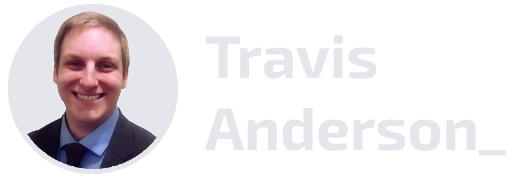
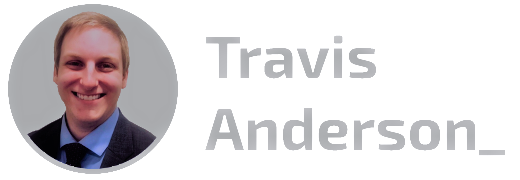
homepage done, set up context and changed routes to slide show

diff --git a/my.portfolio/src/pages/LinkedIn.tsx b/my.portfolio/src/pages/LinkedIn.tsx
@@ -1,11 +1,11 @@
-// @ts-nocheck
-import React from "react";
-import {Button, Paper, Typography} from "@mui/material";
+import React, { useContext } from "react";
+import { Box, Button, Paper, Typography } from "@mui/material";
+import { UserContext } from "../Contexts/PageContext";
 
 const paper = {
     bgcolor: 'primary.main',
     position: "relative"
-}
+} as const
 const title = {
     color: 'text.primary',
     padding: '20px',
@@ -19,14 +19,15 @@ const buttonPadding = {
     marginLeft: '10px'
 }
 export const LinkedIn = () => {
+    const { pageId, setPageId } = useContext<any>(UserContext)
     return (
-        <div>
+        <Box sx={{position:'relative'}}>
             <Typography variant="h3" sx={title}>Introduction
-                <Button sx={{...paper, ...buttonPadding}}
-                        onClick={() => window.open("https://www.linkedin.com/in/travis-anderson-60106a107/", "_blank")}> View
+                <Button sx={{ ...paper, ...buttonPadding }}
+                    onClick={() => window.open("https://www.linkedin.com/in/travis-anderson-60106a107/", "_blank")}> View
                     Travis's Linkedin Profile
                 </Button></Typography>
-            <Paper sx={{paper}}>
+            <Paper sx={{ paper }}>
                 <Typography sx={body}>
                     They say that if you love what you do for your job then you never need to work a day in your life.
                     When I wrote my first javascript function, I was ecstatic. I find manipulating data and growing my
@@ -35,24 +36,29 @@ export const LinkedIn = () => {
                     possible. I love learning new languages and seeing code in different ways. I seem to pick things up
                     rather quickly and enjoy working on software that I can use in my life in a practical way. I am a
                     front-end developer. I use HTML, CSS, JS, and can build apps with React framework.
-                    <br/><br/>
+                    <br /><br />
                     I am gravitating toward a junior front-end position with a hands-on approach to development.
                     Ideally, I would contribute immediately while at the same time continue to broaden my knowledge. I
                     am looking for a company that provides a work environment that is conducive to continued learning,
                     work hard, and advance while having fun.
                     As a self-motivated employee, I will take initiative. I am able to adapt to change in a positive
                     way. I am goal orientated and will accept challenges that will help the company and team succeed.
-                    <br/><br/>
+                    <br /><br />
                     The following are examples of how I've been described by employers and colleagues;
-                    <br/><br/>
-                    -problem solver<br/>
-                    -great work ethic<br/>
-                    -team player<br/>
-                    -good time management skills<br/>
-                    -able to set and achieve goals<br/>
+                    <br /><br />
+                    -problem solver<br />
+                    -great work ethic<br />
+                    -team player<br />
+                    -good time management skills<br />
+                    -able to set and achieve goals<br />
                     -constantly looking for ways to improve in all areas of my life.
                 </Typography>
-
+                <Button onClick={() => setPageId(2)} variant={'contained'} sx={{ position: 'absolute', bottom: 10, right: 10, bgcolor: 'secondary.light' }}>
+                    <Typography sx={{ display: 'inlineBlock', verticalAlign: 'middle' }} variant={'body1'} >Git Hub</Typography>
+                </Button>
+                <Button onClick={() => setPageId(0)} variant={'contained'} sx={{ position: 'absolute', bottom: 10, left: 10, bgcolor: 'secondary.light'}}>
+                    <Typography sx={{ display: 'inlineBlock', verticalAlign: 'middle' }} variant={'body1'} >Home</Typography>
+                </Button>
             </Paper>
-        </div>)
+        </Box>)
 }

diff --git a/my.portfolio/src/pages/Home.tsx b/my.portfolio/src/pages/Home.tsx
@@ -1,27 +1,44 @@
-import { Box, CardMedia, Typography } from "@mui/material";
-import React from "react";
-import { backgroundStyle, flexWrapperInnerStyle, flexWrapperOuterStyle, titleStyle } from "../styles";
+import {Box, Button, CardMedia, Container, Typography} from "@mui/material";
+import React, {useContext} from "react";
+import { backgroundStyle, flexWrapperInnerStyle, flexWrapperOuterStyle, textContentStyle, titleStyle } from "../styles";
 import HomePic from '../picturesOther/HomePic.png';
+import face from '../face.png';
+import LinkedInIcon from '@mui/icons-material/LinkedIn';
+import { UserContext } from "../Contexts/PageContext";
+
 
 export const Home = () => {
-
+    // import {useHistory} from 'react-router-dom';
+    const {pageId, setPageId} = useContext<any>(UserContext);
     return (
         <Box sx={{ ...flexWrapperOuterStyle, ...backgroundStyle, flexDirection: 'row' }}>
             <Box sx={{...flexWrapperInnerStyle, width: '70%', alignItems:'center'}}>
-                <Box>
-                    <Typography sx={titleStyle}>
+                <CardMedia sx={{ height: '70px', width: '200px',position:'absolute', top: 10, left: 10 }}
+                           component="img"
+                           image={face}
+                           alt="bgImage building blocks"
+                />
+                <Container maxWidth='sm' sx={{justifyContent:'center', height:'400px'}}>
+                    <Typography variant={'h1'} sx={{...titleStyle}} align='left'>
                         Hello!
                     </Typography>
-                    <Typography>
-                        test<br/>test
+                    <Typography variant={"body1"} sx={textContentStyle}>
+                        I'm Travis Anderson, a web developer with experience using 
+                        HTML, Javascript, CSS, React, Material UI, MongoDB, Express, Node and MySQL.
                     </Typography>
-                </Box>
+                </Container>
             </Box>
             <CardMedia sx={{ height: '100%', width: '70%'}}
                 component="img"
                 image={HomePic}
                 alt="bgImage building blocks"
             />
+            <Button onClick={() => setPageId(1)} variant={'contained'} sx={{position:'absolute',bottom:10, right:10, bgcolor:'secondary.light'}}>
+                <Typography sx={{display:'inlineBlock', verticalAlign:'middle'}}  variant={'body1'} >Linked In</Typography>
+            </Button>
+            <Button onClick={() => setPageId(3)} variant={'contained'} sx={{position:'absolute',bottom:10, left:10, bgcolor:'secondary.light'}}>
+                <Typography sx={{display:'inlineBlock', verticalAlign:'middle'}}  variant={'body1'} >Resume</Typography>
+            </Button>
         </Box>
     )
 }

diff --git a/my.portfolio/src/pages/GitHub.tsx b/my.portfolio/src/pages/GitHub.tsx
@@ -1,15 +1,16 @@
-// @ts-nocheck
-import React from 'react';
+
+import React, { useContext } from 'react';
 import {MyGallery} from "../Components/MyGallery";
 import {Box, Button, Paper, Typography} from "@mui/material";
 import {ElevatedPaper} from "../Components/ElevatedPaper";
 import {flexWrapperOuterStyle, paperStyle} from "../styles";
+import { UserContext } from '../Contexts/PageContext';
 
 
 const paper = {
     bgcolor: 'primary.main',
     position: "relative"
-}
+}as const;
 const title = {
     color: 'primary.main',
     padding: '20px',
@@ -21,10 +22,11 @@ const buttonPadding = {
 }
 
 export const GitHub = () => {
+    const {pageId, setPageId} = useContext<any>(UserContext);
 
     return (
-        <Box>
-            <Box sx={flexWrapperOuterStyle}>
+        <Box sx={{position:'relative'}}>
+            <Box >
                 <ElevatedPaper sx={{...paperStyle, width:'40%'}}>
                     <Typography variant="h3" sx={title}>GitHub
                         <Button sx={{...paper, ...buttonPadding, color: 'text.secondary'}}
@@ -38,6 +40,12 @@ export const GitHub = () => {
             <Paper sx={paperStyle}>
                 <MyGallery/>
             </Paper>
+            <Button onClick={() => setPageId(3)} variant={'contained'} sx={{position:'absolute',bottom:10, right:10, bgcolor:'secondary.light'}}>
+                <Typography sx={{display:'inlineBlock', verticalAlign:'middle'}}  variant={'body1'} >Resume</Typography>
+            </Button>
+            <Button onClick={() => setPageId(1)} variant={'contained'} sx={{position:'absolute',bottom:10, left:10, bgcolor:'secondary.light'}}>
+                <Typography sx={{display:'inlineBlock', verticalAlign:'middle'}}  variant={'body1'} >Linked In</Typography>
+            </Button>
         </Box>
     );
 };

diff --git a/my.portfolio/src/pages/Resume.tsx b/my.portfolio/src/pages/Resume.tsx
@@ -1,6 +1,7 @@
-import React from 'react';
+import React, { useContext } from 'react';
 import {ElevatedPaper} from "../Components/ElevatedPaper";
-import {Box, Typography} from "@mui/material";
+import {Box, Button, Container, Typography} from "@mui/material";
+import { UserContainer, UserContext } from '../Contexts/PageContext';
 
 const title= {
     color: 'text.primary',
@@ -35,10 +36,11 @@ const subTitlePoints= {
 }
 
 const Resume = () => {
+    const {pageId, setPageId} = useContext(UserContext);
 
     return (
-        <Box sx={{marginTop: '40px', }}>
-            <Box sx={flexContainer}>
+        <Box sx={{position:'relative', marginTop: '40px', }}>
+            <Container sx={flexContainer}>
                 {/*left div*/}
                 <Box sx={flexItem}>
                     {/*//#region Main Title*/}
@@ -151,8 +153,14 @@ const Resume = () => {
                     </ElevatedPaper>
                     {/*//#endregion*/}
                 </Box>
-
-            </Box>
+                
+            </Container>
+            <Button onClick={() => setPageId(0)} variant={'contained'} sx={{position:'absolute', bottom:10, right:10, bgcolor:'secondary.light'}}>
+                <Typography sx={{display:'inlineBlock', verticalAlign:'middle'}}  variant={'body1'} >Home</Typography>
+            </Button>
+            <Button onClick={() => setPageId(2)} variant={'contained'} sx={{position:'absolute',bottom:10, left:10, bgcolor:'secondary.light', color:'#F22'}}>
+                <Typography sx={{display:'inlineBlock', verticalAlign:'middle'}}  variant={'body1'} >Git Hub</Typography>
+            </Button>
         </Box>
     );
 };

diff --git a/my.portfolio/src/App.tsx b/my.portfolio/src/App.tsx
@@ -1,30 +1,36 @@
-import React from 'react';
+import React, {useContext} from 'react';
 import './App.css';
 import face from './face.png';
-import {Box, Container} from "@mui/material";
+import { Box, Container } from "@mui/material";
 import { GitHub } from './pages/GitHub';
 import { LinkedIn } from './pages/LinkedIn';
 import { Home } from './pages/Home';
 import Resume from './pages/Resume';
 import { Routes, Route } from 'react-router';
-
-
-
+import SwipeableViews from "react-swipeable-views";
+import { UserContext } from './Contexts/PageContext';
 
 
 export const App = () => {
     var getHomeState = window.location.href.endsWith('/Home');
-    //script src for linkedIn badge
+    const {pageId, setPageId} = useContext<any>(UserContext);
 
+    const handleChangePageValue = (index: number) => {
+        setPageId(index);
+      };
     return (
 
         <Box>
-                <Routes>
-                    <Route path='/' element={<Home/>}/>
-                    <Route path='/LinkedIn' element={<LinkedIn/>}/>
-                    <Route path='/GitHub' element={<GitHub/>}/>
-                    <Route path='/Resume' element={<Resume/>}/>
-                </Routes>
+            <SwipeableViews
+                axis={"x"}
+                index={pageId}
+                onChangeIndex={handleChangePageValue}
+            >
+                <Home/>
+                <LinkedIn/>
+                <GitHub/>
+                <Resume/>
+            </SwipeableViews>test
         </Box>
     );
 }

diff --git a/my.portfolio/src/index.tsx b/my.portfolio/src/index.tsx
@@ -6,12 +6,16 @@ import reportWebVitals from './reportWebVitals';
 import { createTheme } from "@mui/material";
 import { StyledEngineProvider, ThemeProvider } from "@mui/material/styles";
 import { BrowserRouter } from "react-router-dom";
+import { UserContainer } from './Contexts/PageContext';
 
 
 const theme = createTheme({
   palette: {
     primary: {
       main: '#b3e5fc'
+    },
+    secondary: {
+      main: '#F85986'
     },
     text: {
       primary: '#000000',
@@ -22,8 +26,17 @@ const theme = createTheme({
       paper: '#e8eaf6'
     }
   },
-  spacing: [0, 4, 8, 16, 24, 32, 40, 48, 56, 64]
-}
+  spacing: [0, 4, 8, 16, 24, 32, 40, 48, 56, 64],
+  typography: {
+    h1: {
+      fontFamily: "Pacifico, Balsamiq Sans, cursive",
+    },
+     body1: {
+      fontFamily: "Balsamiq Sans, cursive",
+     },
+  },
+}, 
+
 );
 
 ReactDOM.render(
@@ -31,7 +44,9 @@ ReactDOM.render(
     <BrowserRouter>
       <ThemeProvider theme={theme}>
         <StyledEngineProvider injectFirst>
-          <App />
+          <UserContainer>
+           <App />
+          </UserContainer>
         </StyledEngineProvider>
       </ThemeProvider>
     </BrowserRouter>

diff --git a/my.portfolio/src/Contexts/PageContext.tsx b/my.portfolio/src/Contexts/PageContext.tsx
@@ -1,0 +1,22 @@
+import { createContext , useState} from 'react'
+
+export interface contextInterface {
+    pageId: number;
+    setPageId: (state:number) => void;
+}
+
+export const UserContext = createContext<contextInterface>({
+    pageId: 0,
+    setPageId: (state:number) => 0,
+})
+//@ts-ignore
+export const UserContainer = ({children}) => {
+
+    const [pageId, setPageId] = useState(0);
+
+    return <UserContext.Provider value = {{
+        pageId, setPageId,
+    }}>
+        {children}
+    </UserContext.Provider>
+}

diff --git a/my.portfolio/public/index.html b/my.portfolio/public/index.html
@@ -1,6 +1,9 @@
 <!DOCTYPE html>
 <html lang="en">
   <head>
+    <link rel="preconnect" href="https://fonts.googleapis.com">
+<link rel="preconnect" href="https://fonts.gstatic.com" crossorigin>
+<link href="https://fonts.googleapis.com/css2?family=Balsamiq+Sans:wght@700&family=Pacifico&display=swap" rel="stylesheet">
     <meta charset="utf-8" />
     <link rel="icon" href="%PUBLIC_URL%/favicon.ico" />
     <meta name="viewport" content="width=device-width, initial-scale=1" />

diff --git a/my.portfolio/src/styles.tsx b/my.portfolio/src/styles.tsx
@@ -25,6 +25,10 @@ export const paperStyle = {
 /* #region  texts */
 export const titleStyle = {
     color: 'text.primary',
-    FontSize:10
+    fontSize:'80px'
+}
+export const textContentStyle ={
+    color: 'text.primary',
+    fontSize:'40px'
 }
 /* #endregion */
